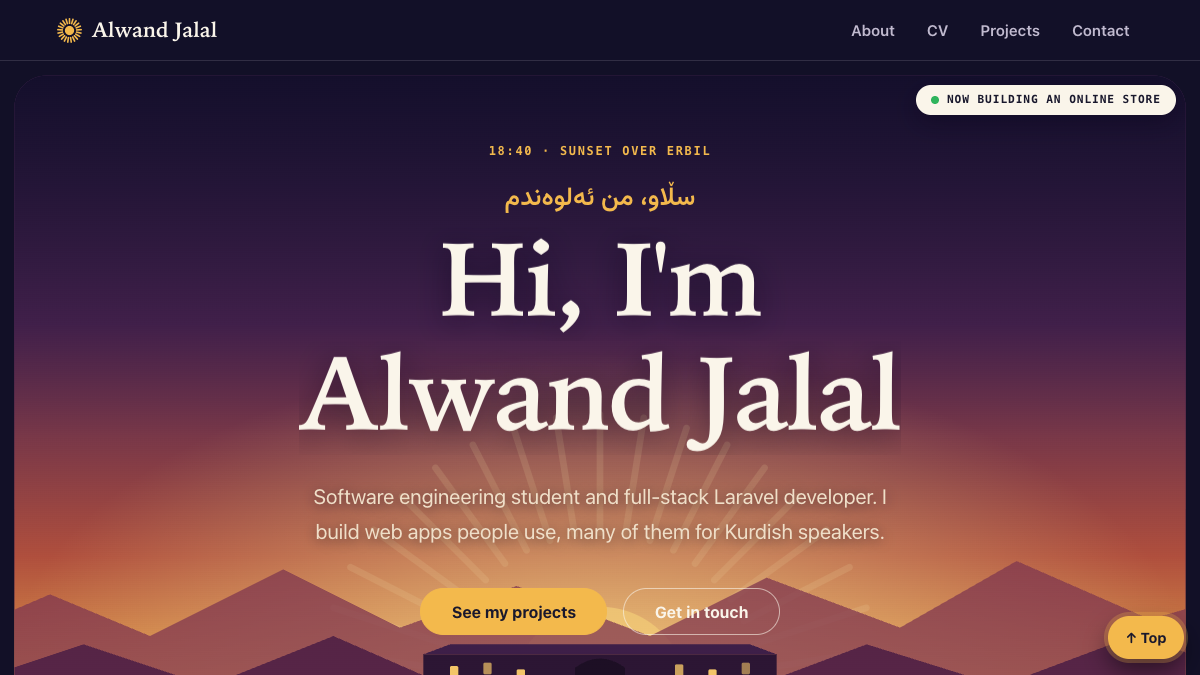
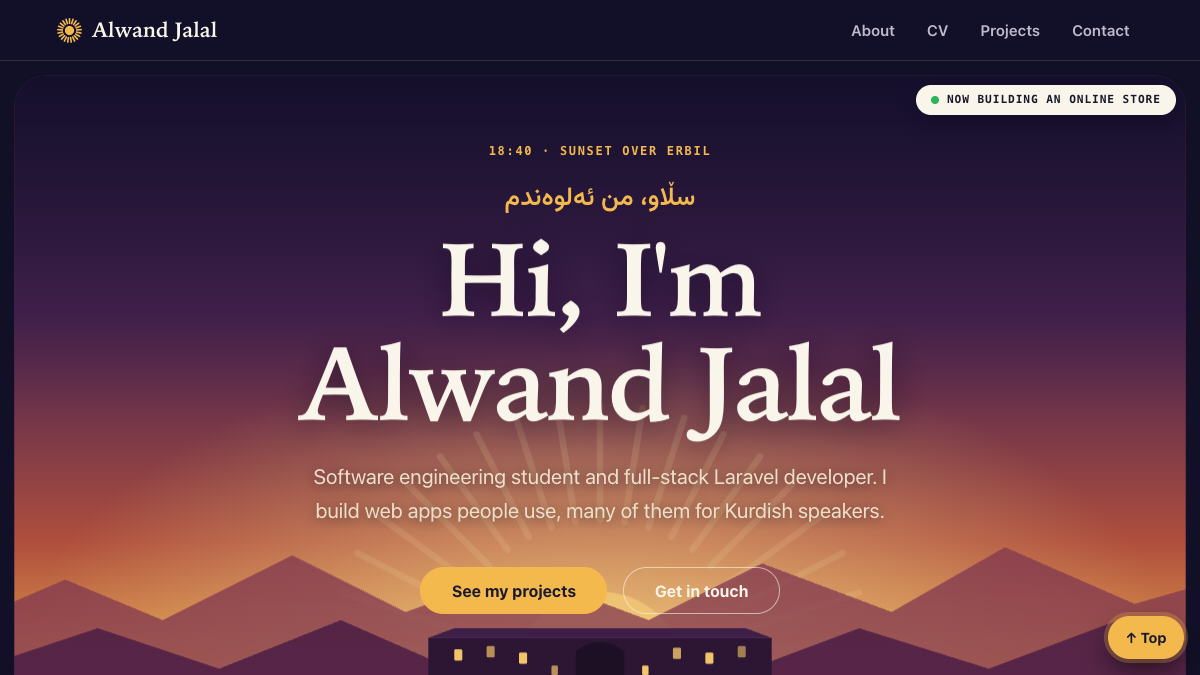
Fade the name in so its shadow is not clipped

diff --git a/css/style.css b/css/style.css
@@ -295,11 +295,9 @@ button:focus-visible {
   text-shadow: 0 0.3rem 2rem oklch(12% 0.05 285 / 0.55);
 }
 
-/* Each line of the name sits in a mask so it can rise into view */
+/* Each line of the name rises into view on its own */
 .line {
   display: block;
-  overflow: hidden;
-  padding-bottom: 0.1em;
 }
 
 .line > span {
@@ -1124,7 +1122,7 @@ textarea:focus {
    ---------------------------------------------------------- */
 
 @keyframes rise {
-  from { transform: translateY(105%); }
+  from { opacity: 0; transform: translateY(45%); }
 }
 
 @keyframes fade-up {
